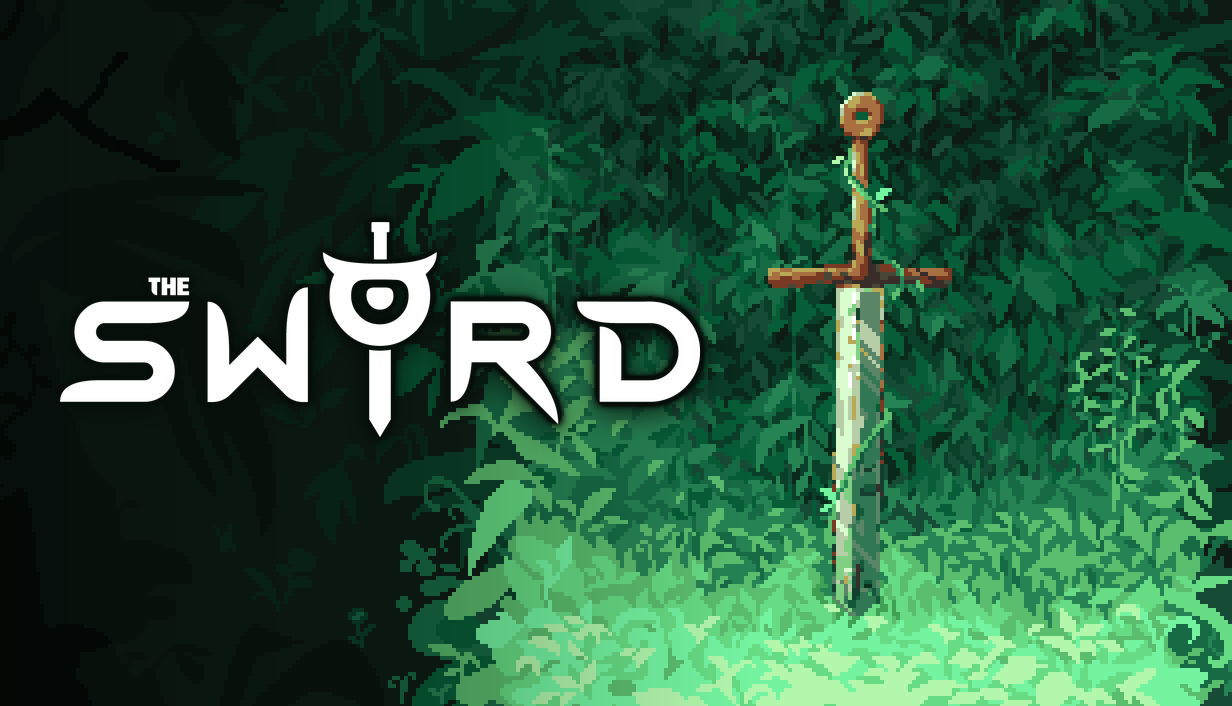
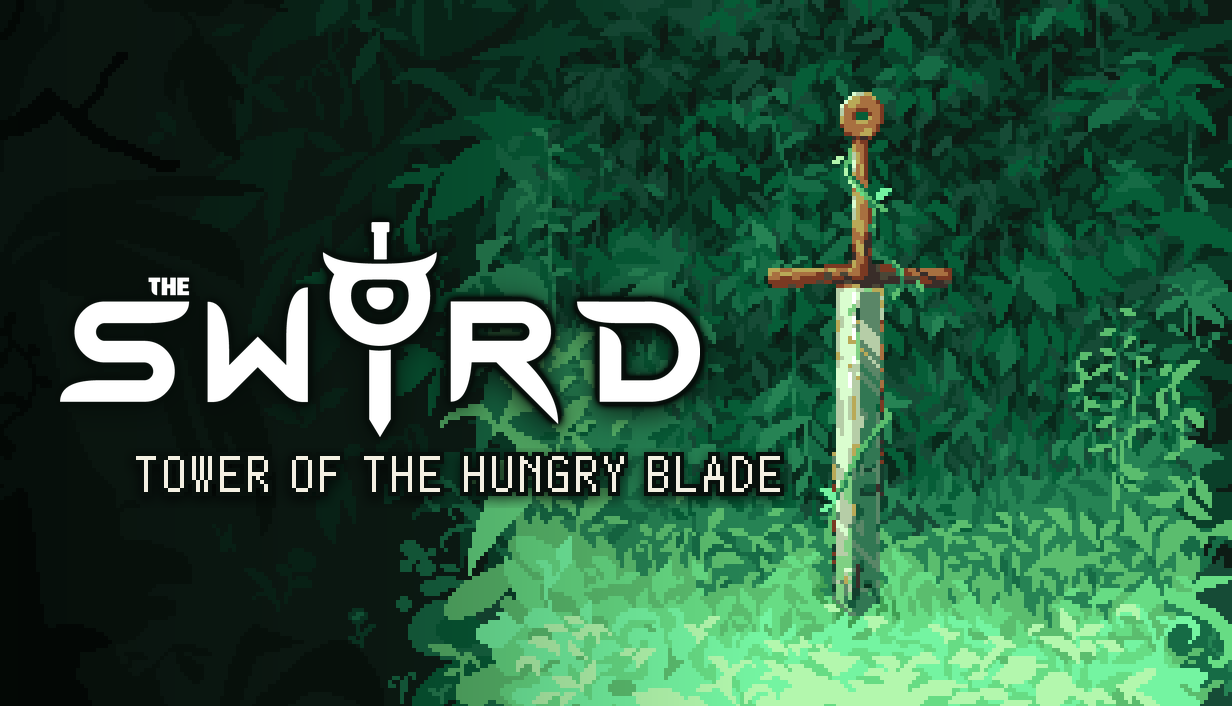
[ADD] 캡슐 임시본에 부제 TOWER OF THE HUNGRY BLADE(게임 글꼴, 다섯 장) · 번체는 출시 뒤·곡은 지금대로(오너 "제안대로")
Claude-Session: https://claude.ai/code/session_019jzxXKnfbABBeq4n8MpqwG

Changed region(s): [[0.0925, 0.6232, 0.6477, 0.7167]]

diff --git a/Steam/README.md b/Steam/README.md
@@ -13,7 +13,8 @@
 | 끝남 | Steamworks 가입·앱 크레딧 $100(11-06 — 결제 뒤 21일은 11-27 로 찼다. 이제 출시를 막는 것은 본인 확인 심사뿐), 은행 정보, 세금 인터뷰(11-08), 본인 확인 서류 올림(11-10·11) | |
 | 기다림 | Valve 본인 확인 심사 — 서류 받은 날부터 최대 45영업일(늦으면 2027-01 중순). 끝나야 앱·체험판 AppID 가 생긴다(1절) | 하루 두 번 확인 중 |
 | 그다음 | 심사가 끝난 날부터: 앱 만들기 → 빌드 올리기 → 스토어 검토(3~5영업일) → Coming Soon 2주 이상 → 출시. **가장 빨라도 심사 끝 + 약 3주** — 아래 "가장 빠른 길" 표(11-04 기준)는 날짜만 밀린다 | |
-| 오너 결정 | D2 가격 · D3 번체 중국어 · 곡 추가(지금 한 곡을 챕터마다 조·속도만 바꿔 쓴다) · 챕터 1·2 난이도(플레이테스트 뒤 — 올렸을 때의 숫자는 `Documents/TheSword_재미검증_v2.md` 6.6) | 출시 전에 정한다(점수 기준 값이 바뀐다) |
+| 오너 결정 | D2 가격(제안 $7.99~9.99 — 숫자 하나는 Steamworks 에 넣을 때) · 챕터 1·2 난이도(플레이테스트 뒤 — 올렸을 때의 숫자는 `Documents/TheSword_재미검증_v2.md` 6.6) | 출시 전에 정한다(점수 기준 값이 바뀐다) |
+| 정함 (11-28) | 스토어 이름 `The Sword: Tower of the Hungry Blade` · 번체는 출시 뒤(번역가가 생기면) · 곡은 지금 한 곡으로 출시(의뢰 곡이 오면 `BGM_CH0~4` 키에 올린다) | 오너 "제안대로" |
 | 권함 | 체험판 사람 플레이테스트 먼저 — `Documents/TheSword_플레이테스트_안내.md`, 보낼 zip 은 `Build/Playtest/TheSword_Demo_20261128.zip`(설문 12문항이 든 안내 포함) | 재미는 시뮬레이션·봇으로만 쟀다 |
 
 | 파일 | 무엇 |
@@ -49,7 +50,7 @@
 
       Claude 의 한 줄: 검색에서 갈리는 것이 목적이면 A(탑 + 고유한 말), 간판 기능을 이름에 올리려면 B. 어느 쪽이든 로고는 "THE SWORD" 그대로 쓰고 부제만 얹는다.
       언어별 이름은 따로 넣는다 [S19] — 중국어는 魔塔 이 든 이름이 장르 검색에 닿는다(예: 魔剑之塔 — 번역가 확인).
-- [ ] **D3** 번체 중국어를 데모에 넣을지(번역가에 달렸다). 번체는 아직 게임에 없다 — `store/zh-TW.md` 머리말.
+- [x] (11-28 오너 "제안대로": **출시·데모는 번체 없이 간다** — 간체 하나. 번역가가 정해지면 LOC1 로 더한다) **D3** 번체 중국어를 데모에 넣을지(번역가에 달렸다). 번체는 아직 게임에 없다 — `store/zh-TW.md` 머리말.
 - [x] **K0** `ProjectSettings.asset` 의 `companyName: CozyByte` — 커밋돼 있다(2026-11-04 확인). 저장 폴더·클라우드 경로가 이 이름에 달렸다 —
       공개 빌드가 나간 뒤에 바꾸면 모든 세이브가 고아가 된다(CLAUDE.md).
 

diff --git a/Documents/TheSword_일일업데이트.md b/Documents/TheSword_일일업데이트.md
@@ -12,6 +12,9 @@
   같은 날 한 번 검색한 결과도 적었다("The Sword Game" 2026 예정, "The Sword" 는 내려감, "The Lone Sword" 2026 예정, 100층 탑 예정작 여럿) — 전수가 아니라 정하는 날 다시 본다.
 - **오너가 이름을 정했다(같은 날 저녁): A안 `The Sword: Tower of the Hungry Blade` / `더 소드: 굶주린 마검의 탑`.** 출시 키트(0절 체크)와 스토어 문구 다섯 파일 머리에 적었다 —
   일본어·중국어 이름은 초안이라 번역 확인 뒤 넣는다. 로고는 "THE SWORD" 그대로이고, 캡슐 그림에 부제를 얹는 일은 따로 남았다(게임 안 타이틀·업적·영상 제목은 안 바꿨다).
+- **오너 "각각 모두 제안대로 진행해봐"**(이름을 정한 뒤): ① 캡슐 임시본 다섯 장에 부제 "TOWER OF THE HUNGRY BLADE" 를 얹었다(게임 글꼴 Silver 를 정수 배로 — `Steam/art/README.md` 부제 절. 작은 캡슐은 그대로),
+  ② 번체 중국어는 출시 뒤로(간체 하나로 출시), ③ 곡은 지금 한 곡으로 출시(의뢰 곡이 오면 키에 올린다), ④ 멈췄던 화면 촬영은 에디터를 껐다 켜 메모리를 비운 뒤(2.2 → 6.3GB) 다시 돌렸다.
+  가격(제안이 $7.99~9.99 범위)과 챕터 1·2 난이도(제안이 "플레이테스트 뒤에 정한다")는 숫자 하나·시점을 오너에게 다시 물었다.
 - **17~22층 화면 훑기는 못 끝냈다.** 백그라운드 촬영이 17층 두 장을 찍은 뒤 시스템 메모리 부족으로 중단됐다(31.5GB 중 2.2GB 남음, 에디터 4.7GB). 다시 시작하지 않았다 — 오너 확인 뒤에.
   중단 직후 플레이를 멈추고 세이브·설정을 되돌려 MATCH(폴더 해시 5491735383671170 — 오너 원본)를 확인했다.
 - 규칙 검사 0. 게임 코드 변경 없음(빌드는 17:29 것이 최신).

diff --git a/Steam/art/README.md b/Steam/art/README.md
@@ -33,6 +33,15 @@ Steam 스토어·라이브러리·업적에 올릴 그림 전부. **프로젝트
 | `achievements_contact.png` | 1700×1960 | (올리지 않는다) | 업적 40장 한눈에 + 64 px(Steam 목록 크기) 미리보기 | — |
 | `../../Assets/@Resources/Art/Icon/TheSword_Icon_512.png` | 512×512 | 실행 파일 아이콘(PlayerSettings) | 앱 아이콘과 같은 디자인. **512 인 까닭**: 글자가 498 px 높이 로고에서 오므로 1024 로는 키워야 한다 | **바꾼다** (B) |
 
+### 부제 (2026-11-28 — 스토어 이름이 정해진 뒤)
+
+공식 부제 **TOWER OF THE HUNGRY BLADE** 를 헤더·라이브러리 헤더·메인·세로·라이브러리 캡슐의 로고 밑에 얹었다(캡슐에는 이름과 공식 부제만 넣을 수 있다 [S15]).
+게임 글꼴 Silver(도트, CC BY 4.0 — `../THIRD_PARTY_NOTICES.txt`)를 1배(글꼴 크기 19, 안티에일리어싱 없음, 자간 1칸)로 찍어 정수 배 NEAREST 로 키웠다:
+헤더 둘·라이브러리 캡슐 ×3(483×27 px), 메인 ×4(644×36 px). 글자는 로고와 같은 흰색 계열, 어두운 테두리(배율만큼)와 부드러운 그림자.
+세로 캡슐은 로고 바로 밑에 검 자루가 있어 "TOWER OF THE" | "HUNGRY BLADE" 로 나눠 자루 양옆에 뒀다(×3).
+**작은 캡슐(462×174)에는 안 넣었다** — 로고가 거의 꽉 차고, 그 크기의 부제는 읽히지 않는다. 라이브러리 로고·히어로도 그대로다.
+부제 없는 판은 git(da783af1 이전)에 있다. 언어별 캡슐(한국어 "굶주린 마검의 탑" 등)은 아직 없다 — 언어별 로고(B)와 같이 만든다.
+
 ### 왜 이렇게 했나
 
 - **캡슐에 예측 숫자를 넣지 않았다.** 게임의 간판은 몬스터 머리 위의 정확한 값이지만, 캡슐에는 게임 이름(과 공식 부제)
